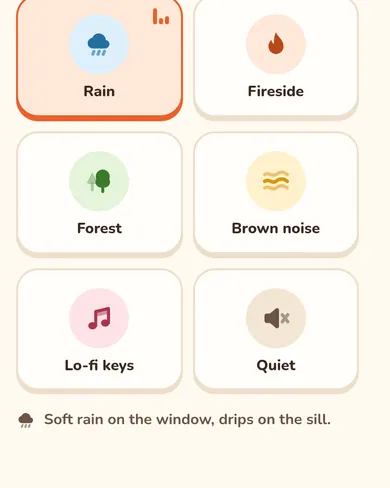
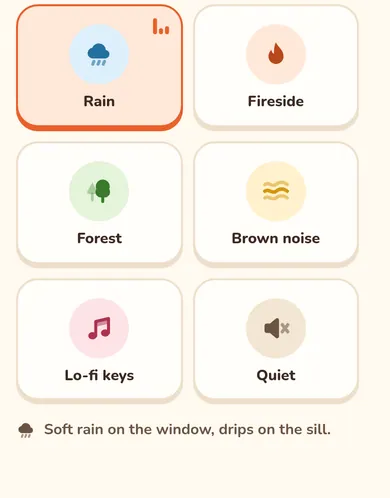
valeoforth: fix round-2 review (scrollspy, hero breakpoint, header opacity, arch kicker motif)

diff --git a/valeoforth/src/styles/10-frame.css b/valeoforth/src/styles/10-frame.css
@@ -1,6 +1,6 @@
 /* Site frame: header, rooms menu, footer, in-room rail. */
 .site-header { position: sticky; top: 0; z-index: 50; height: var(--header-h); display: flex; align-items: center;
-  background: color-mix(in srgb, var(--bg) 82%, transparent); backdrop-filter: blur(14px) saturate(1.2); -webkit-backdrop-filter: blur(14px) saturate(1.2);
+  background: color-mix(in srgb, var(--bg) 94%, transparent); backdrop-filter: blur(18px) saturate(1.2); -webkit-backdrop-filter: blur(18px) saturate(1.2);
   border-bottom: 1px solid var(--line); }
 .site-header .wrap { display: flex; align-items: center; justify-content: space-between; gap: 16px; }
 .brand { display: inline-flex; align-items: center; gap: 10px; text-decoration: none; font-family: var(--font-display); font-weight: 620; font-variation-settings: "SOFT" 100, "opsz" 48; font-size: 1.3125rem; letter-spacing: -0.01em; min-height: 44px; }
@@ -36,10 +36,12 @@
 .site-footer a { color: var(--text-2); display: inline-flex; align-items: center; min-height: 44px; }
 
 /* in-room rail */
-.rail { position: sticky; top: var(--header-h); z-index: 40; background: color-mix(in srgb, var(--bg) 88%, transparent); backdrop-filter: blur(12px); -webkit-backdrop-filter: blur(12px); border-bottom: 1px solid var(--line); }
+.rail { position: sticky; top: var(--header-h); z-index: 40; background: color-mix(in srgb, var(--bg) 95%, transparent); backdrop-filter: blur(18px); -webkit-backdrop-filter: blur(18px); border-bottom: 1px solid var(--line); }
 .rail__list { list-style: none; margin: 0; padding: 8px var(--gutter); display: flex; gap: 6px; overflow-x: auto; scrollbar-width: none; scroll-snap-type: x proximity; -webkit-overflow-scrolling: touch; }
 .rail__list::-webkit-scrollbar { display: none; }
 .rail__list a { display: inline-flex; align-items: center; min-height: 40px; padding: 0 14px; border-radius: 999px; white-space: nowrap; text-decoration: none; font-weight: 600; font-size: 0.9375rem; color: var(--text-2); scroll-snap-align: start; border: 1px solid transparent; }
 .rail__list a:hover { color: var(--text); border-color: var(--line); }
 .rail__list a[aria-current="true"] { background: var(--text); color: var(--bg); }
 @media (min-width: 900px) { .rail__list { justify-content: center; } }
+
+@media (max-height: 500px) and (orientation: landscape) { .rail { position: static; } html { scroll-padding-top: calc(var(--header-h) + 12px); } }

diff --git a/valeoforth/src/scripts/site.js b/valeoforth/src/scripts/site.js
@@ -93,17 +93,21 @@
     }));
   }
 
-  /* Rail scrollspy */
+  /* Rail scrollspy: the last section whose top has passed ~35% of the viewport; the last one at the page bottom */
   const links = $$('.rail__list a');
-  if (links.length && 'IntersectionObserver' in window) {
-    const map = new Map(links.map((a) => [a.getAttribute('href').slice(1), a]));
+  if (links.length) {
+    const rail = $('.rail__list'); const map = new Map(links.map((a) => [a.getAttribute('href').slice(1), a]));
     const secs = [...map.keys()].map((id) => document.getElementById(id)).filter(Boolean);
-    const rail = $('.rail__list');
-    const set = (id) => links.forEach((a) => {
-      const on = a === map.get(id); on ? a.setAttribute('aria-current', 'true') : a.removeAttribute('aria-current');
-      if (on && rail.scrollWidth > rail.clientWidth && scrollY > 200) rail.scrollTo({ left: a.offsetLeft - (rail.clientWidth - a.offsetWidth) / 2, behavior: reduce ? 'auto' : 'smooth' }); // move the rail only, never the page
-    });
-    const io = new IntersectionObserver((es) => { const v = es.filter((e) => e.isIntersecting).sort((a, b) => b.intersectionRatio - a.intersectionRatio)[0]; if (v) set(v.target.id); }, { rootMargin: '-25% 0px -60% 0px', threshold: [0, 0.1, 0.5, 1] });
-    secs.forEach((s) => io.observe(s));
+    let cur = null, tick = false;
+    const update = () => {
+      tick = false; let id = secs[0].id;
+      for (const s of secs) if (s.getBoundingClientRect().top <= innerHeight * 0.35) id = s.id;
+      if (scrollY + innerHeight >= document.documentElement.scrollHeight - 4) id = secs[secs.length - 1].id;
+      if (id === cur) return; cur = id;
+      links.forEach((a) => { const on = a === map.get(id); on ? a.setAttribute('aria-current', 'true') : a.removeAttribute('aria-current');
+        if (on && rail.scrollWidth > rail.clientWidth && scrollY > 200) rail.scrollTo({ left: a.offsetLeft - (rail.clientWidth - a.offsetWidth) / 2, behavior: reduce ? 'auto' : 'smooth' }); }); // move the rail only, never the page
+    };
+    addEventListener('scroll', () => { if (!tick) { tick = true; requestAnimationFrame(update); } }, { passive: true });
+    addEventListener('resize', update); update();
   }
 })();

diff --git a/valeoforth/src/styles/40-kettle.css b/valeoforth/src/styles/40-kettle.css
@@ -10,7 +10,7 @@
 .room--kettle .btn:hover { box-shadow: 0 12px 26px -12px rgba(178, 58, 18, 0.7); }
 .room--kettle .btn--ghost { background: transparent; color: var(--text); border-color: var(--line); }
 .room--kettle .btn--ghost:hover { border-color: var(--text-2); }
-.room--kettle .site-header { background: color-mix(in srgb, #fbf3e6 86%, transparent); }
+.room--kettle .site-header { background: color-mix(in srgb, #fbf3e6 94%, transparent); }
 .room--kettle .menu__panel { background: #fffaf1; box-shadow: 0 24px 60px -24px rgba(60, 30, 10, 0.35); }
 .room--kettle .brand__mark path:last-child { fill: #e8622c; }
 .room--kettle .band--night :focus-visible, .room--kettle .band--night .btn { --focus: #ffd9a0; }
@@ -38,7 +38,8 @@
 .rhero__phone { position: absolute; right: -4%; bottom: 0; width: clamp(104px, 27%, 168px); rotate: 5deg; padding: 5px; border-radius: 26px; }
 .rhero__phone img { border-radius: 21px; }
 .rhero__chai { position: absolute; left: -2%; bottom: 8px; width: clamp(84px, 20%, 128px); height: auto; filter: drop-shadow(0 8px 10px rgba(60, 30, 10, 0.25)); }
-@media (min-width: 1040px) {
+@media (min-width: 900px) {
+  .rhero h1 { font-size: clamp(5rem, 11vw, 10rem); }
   .rhero__grid { grid-template-columns: minmax(0, 1fr) minmax(0, 0.9fr); grid-template-areas: "head art" "body art"; column-gap: clamp(40px, 6vw, 96px); row-gap: 22px; align-items: start; }
   .rhero__head { align-self: end; } .rhero__body { align-self: start; }
   .rhero__art { grid-row: 1 / 3; max-width: 560px; justify-self: end; padding-bottom: 40px; }
@@ -82,3 +83,7 @@
 .kit img { border-radius: 22px; border: 1px solid var(--line); width: 100%; }
 .kit figcaption { margin-top: 12px; color: var(--text-3); font-size: 0.9375rem; }
 .seg { display: none; } .js .seg { display: grid; }
+
+/* the doorway arch as a recurring mark: every kicker carries a tiny lit door */
+.room .kicker { display: inline-flex; align-items: center; gap: 10px; }
+.room .kicker::before { content: ""; flex: none; width: 10px; height: 14px; border-radius: 5px 5px 1px 1px; background: linear-gradient(currentColor, currentColor) center bottom / 4px 8px no-repeat; border: 2px solid currentColor; }

diff --git a/valeoforth/src/styles/20-hall.css b/valeoforth/src/styles/20-hall.css
@@ -68,7 +68,7 @@
   .threshold__cta { align-self: start; margin-top: 20px; }
   .hallway { --door-h: clamp(380px, 64svh, 600px); grid-row: 1 / 3; }
   .ghost { display: block; }
-  .ghost--r { right: -12%; }
+  .ghost--r { right: -3%; }
 }
 @media (max-width: 1039px) { .ghost, .ghost--r { display: none; } }
 @media (max-width: 899px) { .door { margin-bottom: 18px; } .door__plate { margin-top: 12px; padding: 7px 18px 9px; min-width: 0; } .door__plate strong { font-size: 1.375rem; } .threshold { padding-block-start: 22px; } .threshold__grid { gap: 14px; } .threshold__cta { padding-bottom: 22px; } .threshold h1 { font-size: clamp(3.2rem, 17vw, 5rem); } .threshold .lede { font-size: 1.125rem; } .threshold__title .kicker { display: none; } }
@@ -98,6 +98,6 @@
 @media (min-width: 900px) { .house__grid { grid-template-columns: minmax(0, 0.8fr) minmax(0, 1.2fr); gap: 80px; align-items: start; } }
 @media (max-width: 520px) { .house__row { grid-template-columns: auto 1fr; } .house__status { grid-column: 2; grid-row: auto; justify-self: start; margin-top: 6px; } }
 
-.ghost__plate { display: none; position: absolute; left: 50%; bottom: 14px; translate: -50% 0; padding: 5px 12px; border-radius: 6px; border: 1px solid rgba(246, 236, 220, 0.14); color: rgba(246, 236, 220, 0.5); font: 700 0.625rem/1.2 var(--font-ui); letter-spacing: 0.16em; text-transform: uppercase; white-space: nowrap; }
+.ghost__plate { display: none; position: absolute; left: 50%; bottom: 14px; translate: -50% 0; padding: 5px 12px; border-radius: 6px; border: 1px solid rgba(246, 236, 220, 0.14); color: rgba(246, 236, 220, 0.72); font: 700 0.6875rem/1.2 var(--font-ui); letter-spacing: 0.16em; text-transform: uppercase; white-space: nowrap; }
 @media (min-width: 1040px) { .ghost__plate { display: block; } }
 @media (max-height: 700px) and (max-width: 1039px) and (orientation: portrait) { .hallway { --door-h: 186px; } .threshold .lede { font-size: 1.0625rem; line-height: 1.45; } }
